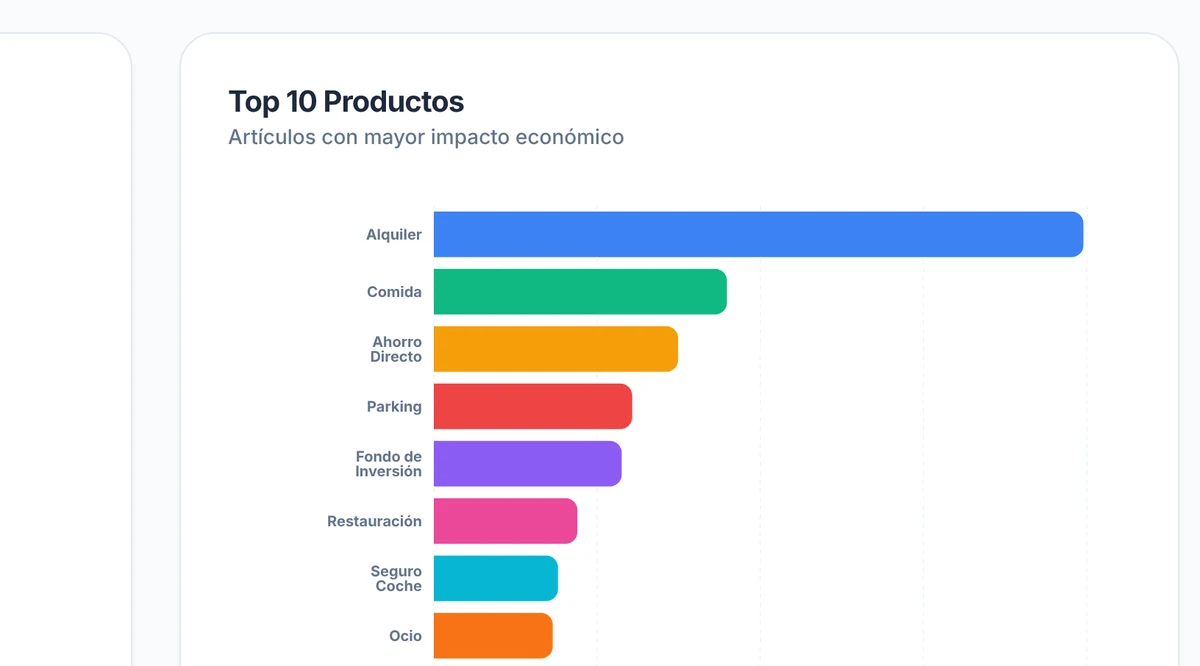
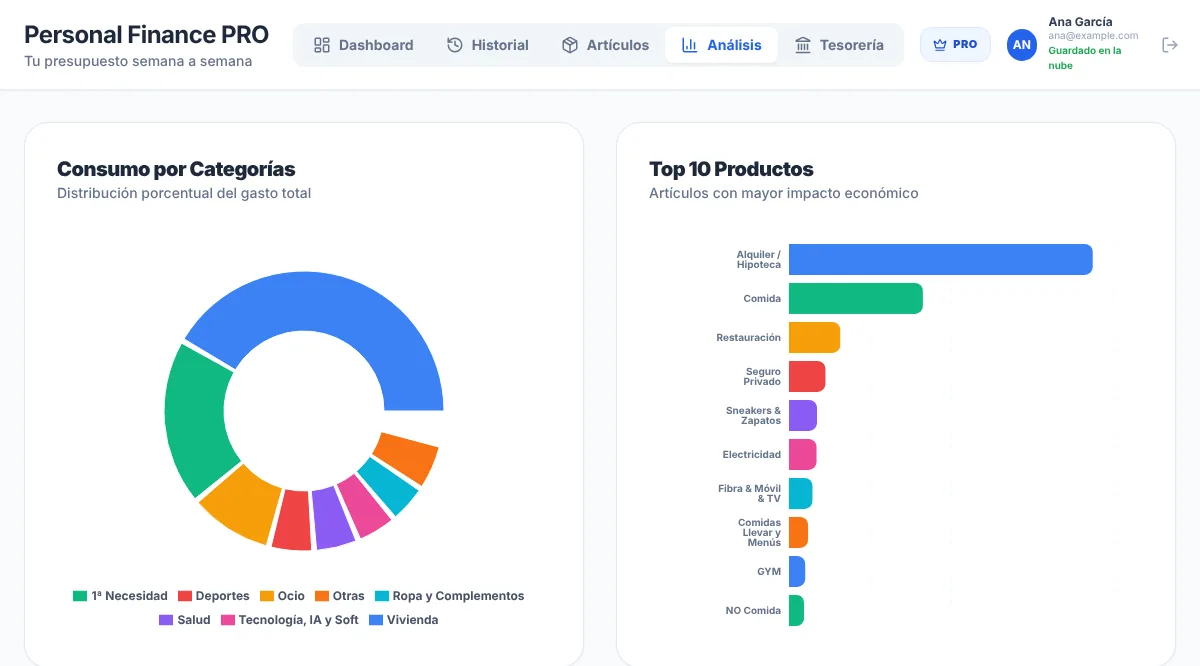
Personal Finance PRO: capturas con el estilo nuevo de la app
Claude-Session: https://claude.ai/code/session_01HEsxZip21Mzw3umbFx5cQP

diff --git a/personalfinance.html b/personalfinance.html
@@ -44,7 +44,7 @@
     <p class="entradilla">Apuntas «15 € en taxi» o haces una foto al ticket, y la IA lo coloca en su sitio. Personal Finance PRO convierte el control de gastos en una matriz semanal y mensual que se mantiene sola, para que veas en cada momento cuánto te queda y dónde se va el dinero.</p>
     <p class="app-acciones"><a class="boton boton--lg" href="mailto:juanra.domenech@gmail.com?subject=Lista%20de%20espera%20Personal%20Finance%20PRO&amp;body=Hola%20Juanra%2C%0A%0AQuiero%20apuntarme%20a%20la%20lista%20de%20espera%20de%20Personal%20Finance%20PRO.%0A%0ANombre%3A%20%0A">Apúntame a la lista de espera</a>
       <a class="boton boton--lg boton--linea" href="https://calendar.app.google/ssXw7ezBEgn77nco7" target="_blank" rel="noopener">Ver una demo de 15 minutos</a></p>
-    <figure class="app-marco"><div class="app-marco-barra"><i></i><i></i><i></i></div><img class="" src="media/apps/pf-dashboard.webp" alt="Panel de Personal Finance PRO con el presupuesto semanal y mensual por categorías" width="1600" height="867" loading="lazy" decoding="async"></figure>
+    <figure class="app-marco"><div class="app-marco-barra"><i></i><i></i><i></i></div><img class="" src="media/apps/pf-dashboard.webp" alt="Panel de Personal Finance PRO con las cuatro cifras clave y el registro semanal por categorías" width="1600" height="867" loading="lazy" decoding="async"></figure>
     <p class="app-aviso">Las capturas usan datos de ejemplo.</p>
   </div>
 </section>
@@ -53,7 +53,7 @@
     <span class="etiqueta">Qué hace</span>
     <h2 class="titulo aparece" id="t-funciones">Menos apuntar, más decidir</h2>
     <ul class="app-funciones"><li class="aparece"><span>01</span><h3>Un gasto en tres segundos</h3><p>Escribe o dicta «15 € en taxi &quot;trabajo&quot;» y la IA entiende el importe, la categoría, la fecha y el comentario.</p></li><li class="aparece"><span>02</span><h3>Foto del ticket, desglosada</h3><p>Fotografía el ticket del súper y separa sola comida, bebidas, droguería o bolsas en sus categorías.</p></li><li class="aparece"><span>03</span><h3>Semana a semana</h3><p>Presupuesto y gasto real por semanas y meses, con la desviación de cada partida siempre a la vista.</p></li><li class="aparece"><span>04</span><h3>Análisis y asistente</h3><p>Gráficos de consumo, los productos que más pesan y un asistente que te propone dónde ahorrar con tus propios números.</p></li><li class="aparece"><span>05</span><h3>Tesorería</h3><p>Movimientos y saldos de tus cuentas en un mismo sitio, sin conectar la app a tu banco.</p></li><li class="aparece"><span>06</span><h3>Exporta cuando quieras</h3><p>Tus artículos y gastos en PDF o Excel, para tu gestor o para tus propias cuentas.</p></li></ul>
-    <div class="app-capturas"><figure class="app-captura app-captura--ancha aparece"><img class="" src="media/apps/pf-analisis.webp" alt="Análisis de Personal Finance PRO con los diez conceptos de mayor gasto" width="1200" height="666" loading="lazy" decoding="async"><figcaption>Análisis: dónde se va el dinero.</figcaption></figure><figure class="app-captura app-captura--alta aparece"><img class="" src="media/apps/pf-movil.webp" alt="Personal Finance PRO en el móvil" width="585" height="1050" loading="lazy" decoding="async"><figcaption>En el móvil, con la semana actual a mano.</figcaption></figure></div>
+    <div class="app-capturas"><figure class="app-captura app-captura--ancha aparece"><img class="" src="media/apps/pf-analisis.webp" alt="Análisis de Personal Finance PRO: gasto por categorías y los diez conceptos de mayor gasto" width="1200" height="666" loading="lazy" decoding="async"><figcaption>Análisis: en qué categorías y conceptos se va el dinero.</figcaption></figure><figure class="app-captura app-captura--alta aparece"><img class="" src="media/apps/pf-movil.webp" alt="Personal Finance PRO en el móvil confirmando un gasto: 12,40 € en Comida" width="585" height="1050" loading="lazy" decoding="async"><figcaption>En el móvil: escribes el gasto y te dice en qué partida lo ha puesto.</figcaption></figure></div>
   </div>
 </section>
 <section class="parte app-precio" aria-labelledby="t-precio">

diff --git a/privacidad.html b/privacidad.html
@@ -51,7 +51,7 @@
   <p>El proveedor de correo (Google Ireland Limited, con Gmail) y el de alojamiento de la web (Netlify, Inc.), que solo guarda los registros técnicos de acceso necesarios para servir la web. Si aceptas la analítica, Google Ireland Limited como encargado (ver la política de cookies). No se ceden datos a nadie más salvo obligación legal.</p>
   <h2>Tus derechos</h2>
   <p>Puedes pedir acceso, rectificación, supresión, oposición, limitación y portabilidad escribiendo a juanra.domenech@gmail.com. Si crees que no se han respetado, puedes reclamar ante la Agencia Española de Protección de Datos (<a href="https://www.aepd.es" target="_blank" rel="noopener">aepd.es</a>).</p>
-  <p class="fecha">Última actualización: 20 de noviembre de 2026.</p>
+  <p class="fecha">Última actualización: 21 de noviembre de 2026.</p>
 </main>
 <footer class="pie">
   <span>© 2026 Juanra Doménech</span>

diff --git a/cookies.html b/cookies.html
@@ -50,7 +50,7 @@
   <p>Google Ireland Limited. Los datos pueden transferirse a Estados Unidos al amparo del Marco de Privacidad de Datos UE-EE. UU. Más información en la <a href="https://policies.google.com/technologies/partner-sites?hl=es" target="_blank" rel="noopener">información de Google sobre cómo usa los datos</a>.</p>
   <h2>Cómo cambiar tu decisión</h2>
   <p>Puedes cambiarla cuando quieras con el botón <strong>«Configurar cookies»</strong> del pie de cualquier página, o borrando las cookies desde los ajustes de tu navegador.</p>
-  <p class="fecha">Última actualización: 20 de noviembre de 2026.</p>
+  <p class="fecha">Última actualización: 21 de noviembre de 2026.</p>
 </main>
 <footer class="pie">
   <span>© 2026 Juanra Doménech</span>

diff --git a/aviso-legal.html b/aviso-legal.html
@@ -54,7 +54,7 @@
   <p>La web enlaza a perfiles en redes sociales y a otras páginas. El titular no responde del contenido de páginas de terceros.</p>
   <h2>Legislación</h2>
   <p>Esta web se rige por la legislación española.</p>
-  <p class="fecha">Última actualización: 20 de noviembre de 2026.</p>
+  <p class="fecha">Última actualización: 21 de noviembre de 2026.</p>
 </main>
 <footer class="pie">
   <span>© 2026 Juanra Doménech</span>
